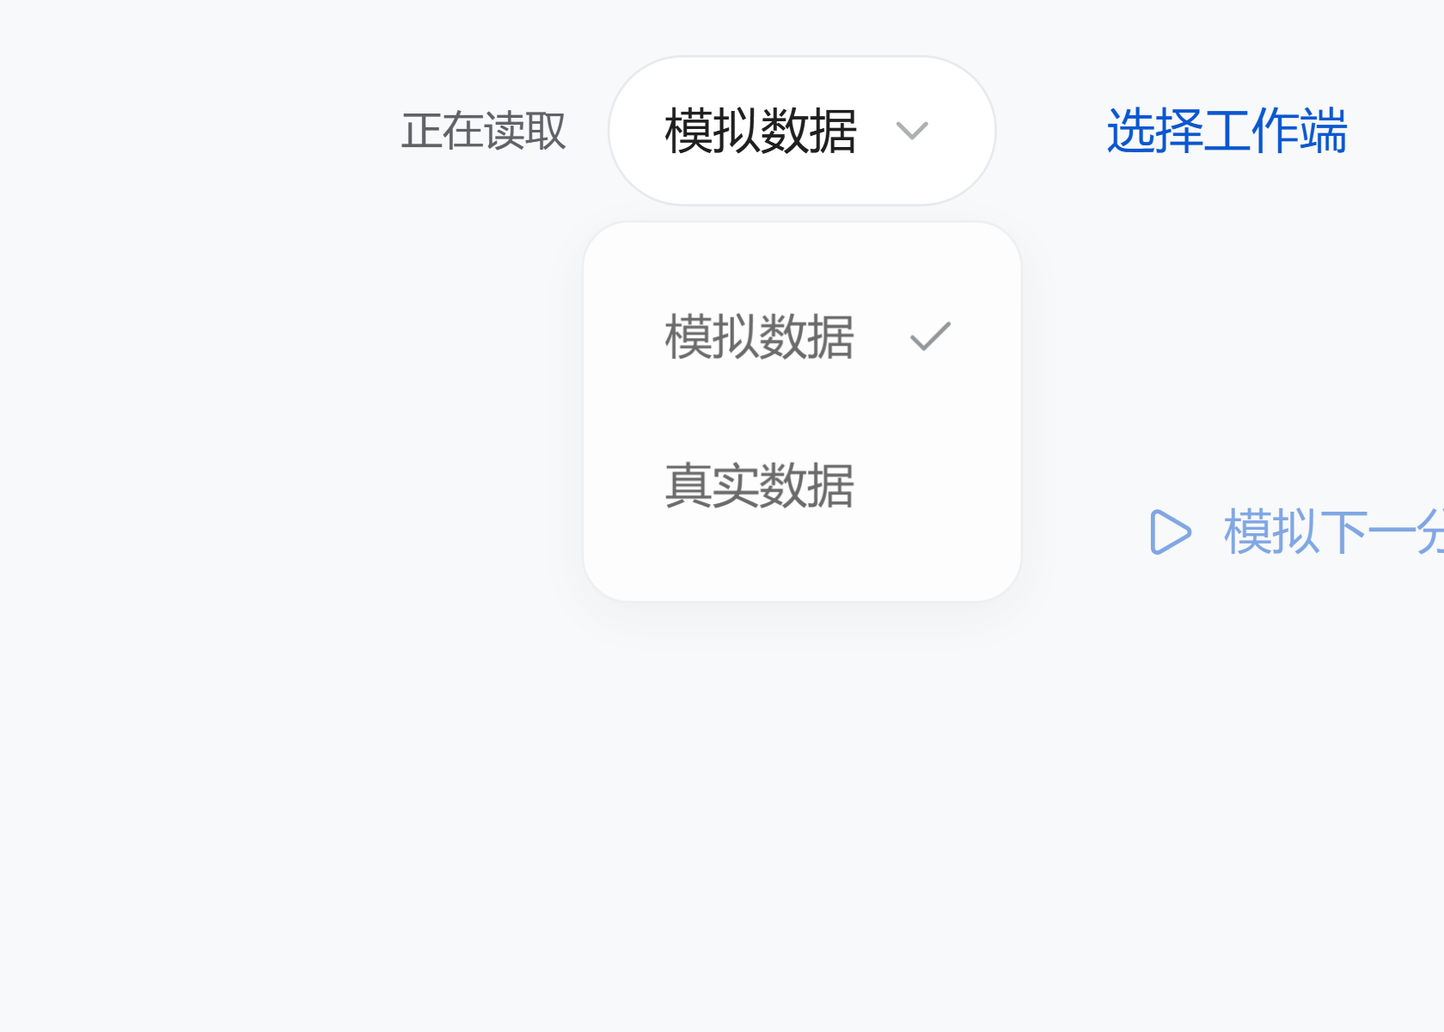
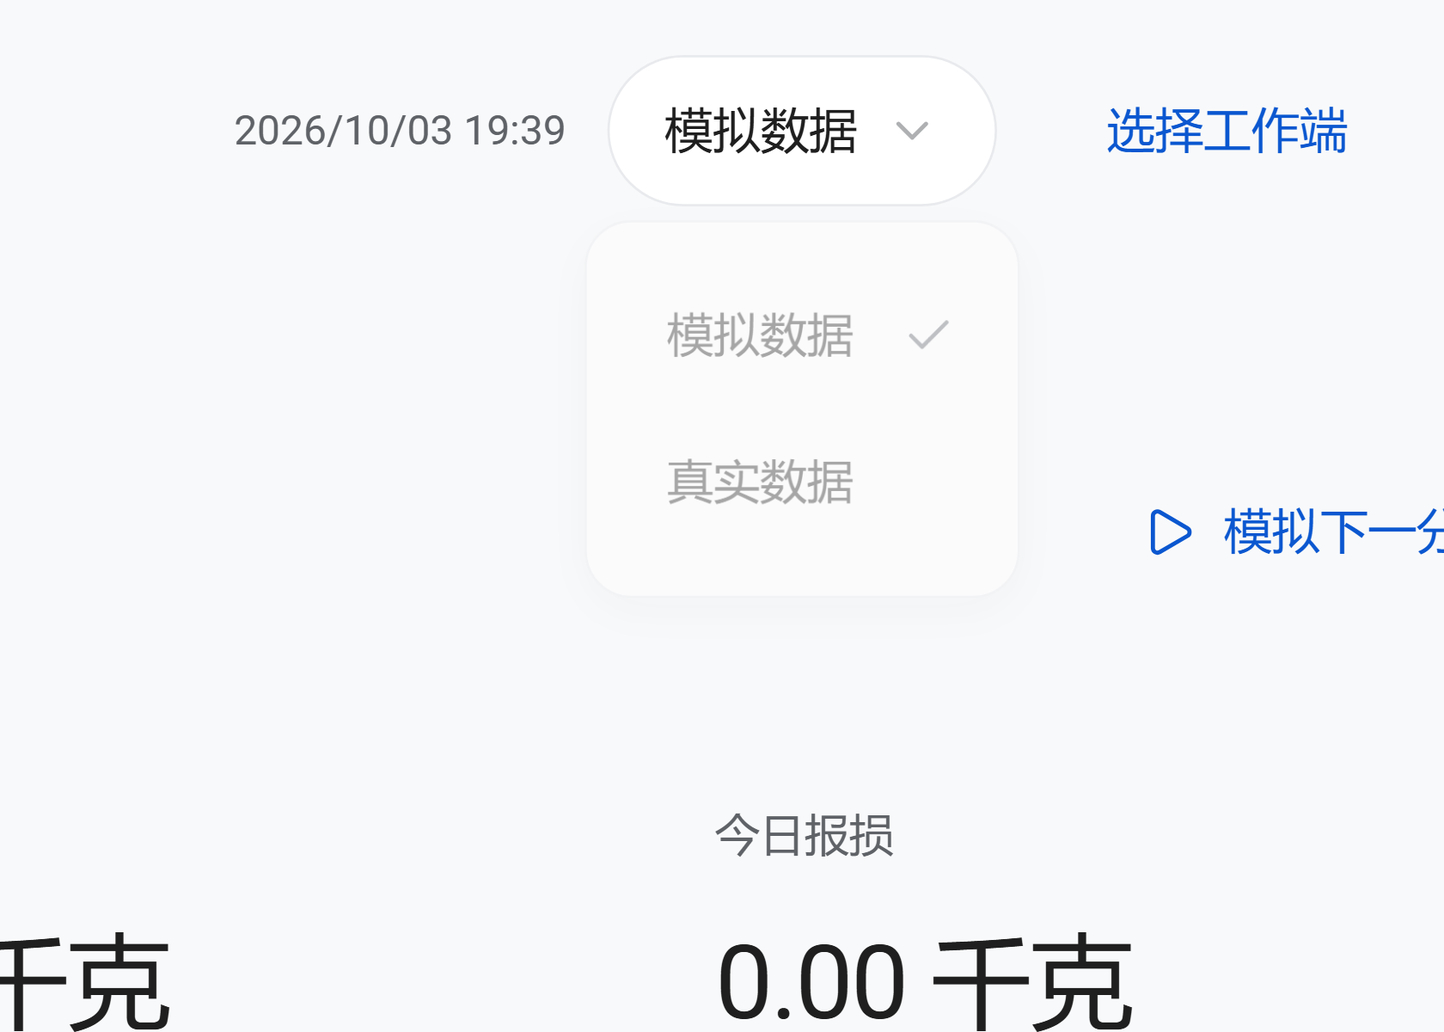
按自查修：非补菜任务分量空值崩页、升级尺度用错阈值、配置值漏进快照

diff --git a/modules/frontend/components/workspace/workspace.tsx b/modules/frontend/components/workspace/workspace.tsx
@@ -33,10 +33,16 @@ const date=(s:string)=>new Date(s).toLocaleDateString("zh-CN",{timeZone:"Asia/Sh
 const qty=(n:number,u:string)=>u==="g"?(n>=1000?`${(n/1000).toFixed(2)} 千克`:`${number(n)} 克`):`${number(n)} 件`;
 const statusText={urgent:"需补充",watch:"留意余量",okay:"充足",anomaly:"需复核"};
 const taskText={pending:"待处理",preparing:"制作中",completed:"已完成",cancelled:"已取消"};
-// 后端派单动作的措辞。补菜是默认，其余三种都要换掉「补充多少 / 完成补菜」这类说法。
-const actionText={check:"巡检",pull:"撤盘",replace:"更换菜品"};
-const actionStart={check:"开始处理",pull:"开始处理",replace:"开始更换"};
-const actionDone={check:"完成巡检",pull:"完成撤盘",replace:"换下并上新"};
+// 非补菜动作的措辞。徽标、按钮、分量格说的都是同一个动作，所以按动作分组放一处，
+// 改一个动作不用满文件找三个 Record。
+// `amount` 顶替的是补菜才有的「补充多少」：换菜和撤盘撤的是整盘，巡检没东西可报数。
+const actionWording={
+  check:{badge:"巡检",start:"开始处理",done:"完成巡检",hint:"建议巡检",amount:"无需补充分量"},
+  pull:{badge:"撤盘",start:"开始处理",done:"完成撤盘",hint:"建议撤盘",amount:"无需补充分量"},
+  replace:{badge:"更换菜品",start:"开始更换",done:"换下并上新",hint:"建议换下并上新批次",amount:"整盘换新"},
+} as const;
+/** 任务的分量说法。非补菜任务的 `quantity` 是 null，直接进 `qty()` 会崩。 */
+const amountText=(t:Task,unit:string)=>t.action&&t.action!=="refill"?actionWording[t.action].amount:qty(t.quantity,unit);
 function Choice({value,onChange,options,label,disabled=false}:{value:string;onChange:(s:string)=>void;options:{value:string;label:string}[];label:string;disabled?:boolean}){return <Select value={value} onValueChange={onChange} disabled={disabled}><SelectTrigger aria-label={label}><SelectValue/></SelectTrigger><SelectContent>{options.map(o=><SelectItem value={o.value} key={o.value}>{o.label}</SelectItem>)}</SelectContent></Select>}
 function Metric({label,value,note,alert=false}:{label:string;value:string;note:string;alert?:boolean}){return <section className={`metric ${alert?"metric-alert":""}`}><span>{label}</span><strong>{value}</strong><small>{note}</small></section>}
 function Empty({title,description}:{title:string;description:string}){return <div className="empty-state"><ClipboardList size={30}/><h3>{title}</h3><p>{description}</p></div>}
@@ -121,21 +127,22 @@ function Kitchen({data,busy,run,setEdit,focused=false}:{data:Data;busy:boolean;r
       const waitingForWeight=data.source==="live"&&t.status==="preparing"&&t.actual<t.quantity;
       // 非补菜任务没有分量：换下上新和撤盘撤的是整盘，巡检也没东西可报数。
       const extra=t.action&&t.action!=="refill"?t.action:null;
+      const wording=extra?actionWording[extra]:null;
       return <article className={`task-row ${t.status==="preparing"?"is-preparing":""}`} key={t.id}>
-       <div className="task-dish"><h2>{d.name}</h2>{extra&&<span className={`status ${extra==="replace"?"watch":"okay"}`}>{actionText[extra]}</span>}{focused?<p>{taskText[t.status]}</p>:<p className={urgent&&!delayed&&t.status==="pending"?"priority-time":""}>{delayed?`${time(t.availableAt!)} 开始`:t.status==="preparing"?(extra?"正在处理":"正在制作"):extra?(extra==="replace"?"建议换下并上新批次":`建议${actionText[extra]}`):urgent?"优先补充":`${time(t.dueAt)} 前补充`}{t.status==="preparing"&&!extra&&<span> · {time(t.dueAt)} 前完成</span>}</p>}</div>
-       <div className="task-quantity">{extra?<span className="cell-meta">{extra==="replace"?"整盘换新":"无需补充分量"}</span>:<Quantity value={t.quantity} unit={d.unit}/>}{focused&&<small className="cell-meta">{extra?"该任务不涉及分量":"该菜品补充总量"}</small>}</div>
+       <div className="task-dish"><h2>{d.name}</h2>{wording&&<span className={`status ${extra==="replace"?"watch":"okay"}`}>{wording.badge}</span>}{focused?<p>{taskText[t.status]}</p>:<p className={urgent&&!delayed&&t.status==="pending"?"priority-time":""}>{delayed?`${time(t.availableAt!)} 开始`:t.status==="preparing"?(wording?"正在处理":"正在制作"):wording?wording.hint:urgent?"优先补充":`${time(t.dueAt)} 前补充`}{t.status==="preparing"&&!wording&&<span> · {time(t.dueAt)} 前完成</span>}</p>}</div>
+       <div className="task-quantity">{wording?<span className="cell-meta">{wording.amount}</span>:<Quantity value={t.quantity} unit={d.unit}/>}{focused&&<small className="cell-meta">{wording?"该任务不涉及分量":"该菜品补充总量"}</small>}</div>
        {focused&&<div className="supply-arrival"><strong className={arrival&&arrival.seconds<=30?"red-text":""}>{arrival?arrivalText(arrival.seconds):"待接入 / 待更新"}</strong><small>{arrival?`${arrival.simulated?"模拟":"预计"}到口 ${time(new Date(arrival.at).toISOString())} · ${arrival.plateId}`:"暂无有效转盘到口时间"}</small></div>}
-       <div className="task-row-actions"><div><Button className={t.status==="preparing"?"complete-button":"start-button"} disabled={busy||delayed||waitingForWeight} onClick={()=>run({action:"task",id:t.id,status:t.status==="pending"?"preparing":"completed"})}>{t.status==="pending"?(extra?actionStart[extra]:"开始制作"):<><Check size={17}/>{extra?actionDone[extra]:"完成补菜"}</>}</Button>{waitingForWeight&&<small className="weight-pending">等待称重确认</small>}</div>
-        <DropdownMenu><DropdownMenuTrigger asChild><Button variant="ghost" className="more-button" aria-label={`${d.name}更多操作`} disabled={busy}><MoreHorizontal size={21}/></Button></DropdownMenuTrigger><DropdownMenuContent align="end"><DropdownMenuItem onSelect={()=>setDetail(t)}><Info/>查看详情</DropdownMenuItem><DropdownMenuItem onSelect={()=>setEdit({kind:"task",item:t,mode:"edit"})}><Pencil/>修改分量</DropdownMenuItem><DropdownMenuItem onSelect={()=>setEdit({kind:"task",item:t,mode:"delay"})}><Clock3/>延后补菜</DropdownMenuItem><DropdownMenuSeparator/><DropdownMenuItem variant="destructive" onSelect={()=>setEdit({kind:"task",item:t,mode:"cancel"})}><X/>取消任务</DropdownMenuItem></DropdownMenuContent></DropdownMenu>
+       <div className="task-row-actions"><div><Button className={t.status==="preparing"?"complete-button":"start-button"} disabled={busy||delayed||waitingForWeight} onClick={()=>run({action:"task",id:t.id,status:t.status==="pending"?"preparing":"completed"})}>{t.status==="pending"?(wording?wording.start:"开始制作"):<><Check size={17}/>{wording?wording.done:"完成补菜"}</>}</Button>{waitingForWeight&&<small className="weight-pending">等待称重确认</small>}</div>
+        <DropdownMenu><DropdownMenuTrigger asChild><Button variant="ghost" className="more-button" aria-label={`${d.name}更多操作`} disabled={busy}><MoreHorizontal size={21}/></Button></DropdownMenuTrigger><DropdownMenuContent align="end"><DropdownMenuItem onSelect={()=>setDetail(t)}><Info/>查看详情</DropdownMenuItem>{!wording&&<><DropdownMenuItem onSelect={()=>setEdit({kind:"task",item:t,mode:"edit"})}><Pencil/>修改分量</DropdownMenuItem><DropdownMenuItem onSelect={()=>setEdit({kind:"task",item:t,mode:"delay"})}><Clock3/>延后补菜</DropdownMenuItem></>}<DropdownMenuSeparator/><DropdownMenuItem variant="destructive" onSelect={()=>setEdit({kind:"task",item:t,mode:"cancel"})}><X/>取消任务</DropdownMenuItem></DropdownMenuContent></DropdownMenu>
        </div>
       </article>;
      })}
      {!active.length&&<div className="kitchen-empty"><span><Check size={28}/></span><h2>暂时没有需要补充的菜品</h2><p>{data.source==="demo"?"有新的补菜任务时，会出现在这里。":"确认补菜规则并接入设备后，自动接收任务。"}</p></div>}
     </div>
    </TabsContent>
-   <TabsContent value="records"><div className="record-toolbar"><Choice value={recordTab} onChange={setRecordTab} label="记录类型" options={[{value:"tasks",label:"已结束任务"},{value:"waste",label:"撤盘与报损"}]}/></div><section className="panel records-panel"><Table mobileLayout="cards"><TableHeader><TableRow>{recordTab==="tasks"?<><TableHead>菜品</TableHead><TableHead>补充分量</TableHead><TableHead>状态</TableHead><TableHead>时间</TableHead><TableHead>备注</TableHead></>:<><TableHead>菜品</TableHead><TableHead>撤盘净重</TableHead><TableHead>处置</TableHead><TableHead>时间</TableHead><TableHead>原因</TableHead></>}</TableRow></TableHeader><TableBody>{recordTab==="tasks"?completed.map(t=><TableRow key={t.id}><TableCell><b>{data.dishes.find(d=>d.id===t.dishId)?.name}</b></TableCell><TableCell>{qty(t.quantity,data.dishes.find(d=>d.id===t.dishId)?.unit||"g")}</TableCell><TableCell>{taskText[t.status]}</TableCell><TableCell>{time(t.updatedAt)}</TableCell><TableCell>{t.note||"—"}</TableCell></TableRow>):data.ledger.filter(l=>l.kind==="waste"||l.kind==="withdraw").map(l=><TableRow key={l.id}><TableCell><b>{data.dishes.find(d=>d.id===l.dishId)?.name}</b></TableCell><TableCell>{kg(l.weightG)}</TableCell><TableCell>{l.kind==="withdraw"?"保留":"报损"}</TableCell><TableCell>{time(l.at)}</TableCell><TableCell>{l.reason||"—"}</TableCell></TableRow>)}</TableBody></Table>{((recordTab==="tasks"&&!completed.length)||(recordTab==="waste"&&!data.ledger.some(l=>l.kind==="waste"||l.kind==="withdraw")))&&<Empty title="暂无记录" description="处理补菜或撤盘后，可在这里查看。"/>}</section></TabsContent>
+   <TabsContent value="records"><div className="record-toolbar"><Choice value={recordTab} onChange={setRecordTab} label="记录类型" options={[{value:"tasks",label:"已结束任务"},{value:"waste",label:"撤盘与报损"}]}/></div><section className="panel records-panel"><Table mobileLayout="cards"><TableHeader><TableRow>{recordTab==="tasks"?<><TableHead>菜品</TableHead><TableHead>补充分量</TableHead><TableHead>状态</TableHead><TableHead>时间</TableHead><TableHead>备注</TableHead></>:<><TableHead>菜品</TableHead><TableHead>撤盘净重</TableHead><TableHead>处置</TableHead><TableHead>时间</TableHead><TableHead>原因</TableHead></>}</TableRow></TableHeader><TableBody>{recordTab==="tasks"?completed.map(t=><TableRow key={t.id}><TableCell><b>{data.dishes.find(d=>d.id===t.dishId)?.name}</b></TableCell><TableCell>{amountText(t,data.dishes.find(d=>d.id===t.dishId)?.unit||"g")}</TableCell><TableCell>{taskText[t.status]}</TableCell><TableCell>{time(t.updatedAt)}</TableCell><TableCell>{t.note||"—"}</TableCell></TableRow>):data.ledger.filter(l=>l.kind==="waste"||l.kind==="withdraw").map(l=><TableRow key={l.id}><TableCell><b>{data.dishes.find(d=>d.id===l.dishId)?.name}</b></TableCell><TableCell>{kg(l.weightG)}</TableCell><TableCell>{l.kind==="withdraw"?"保留":"报损"}</TableCell><TableCell>{time(l.at)}</TableCell><TableCell>{l.reason||"—"}</TableCell></TableRow>)}</TableBody></Table>{((recordTab==="tasks"&&!completed.length)||(recordTab==="waste"&&!data.ledger.some(l=>l.kind==="waste"||l.kind==="withdraw")))&&<Empty title="暂无记录" description="处理补菜或撤盘后，可在这里查看。"/>}</section></TabsContent>
   </Tabs>
-  <Dialog open={!!detail} onOpenChange={open=>{if(!open)setDetail(null);}}><DialogContent><DialogHeader><DialogTitle>{detailDish?.name}补菜详情</DialogTitle><DialogDescription>任务分量与当前观测记录</DialogDescription></DialogHeader>{detail&&detailDish&&<div className="task-detail"><div><span>建议补充</span><b>{qty(detail.quantity,detailDish.unit)}</b></div><div><span>已观测补充</span><b>{qty(detail.actual,detailDish.unit)}</b></div><div><span>需要完成时间</span><b>{time(detail.dueAt)}</b></div><p>{detail.reason}</p>{detail.note&&<p>备注：{detail.note}</p>}</div>}</DialogContent></Dialog>
+  <Dialog open={!!detail} onOpenChange={open=>{if(!open)setDetail(null);}}><DialogContent><DialogHeader><DialogTitle>{detailDish?.name}{detail?.action&&detail.action!=="refill"?"任务详情":"补菜详情"}</DialogTitle><DialogDescription>{detail?.action&&detail.action!=="refill"?"这条任务的派单依据与来源":"任务分量与当前观测记录"}</DialogDescription></DialogHeader>{detail&&detailDish&&<div className="task-detail"><div><span>建议补充</span><b>{amountText(detail,detailDish.unit)}</b></div><div><span>已观测补充</span><b>{qty(detail.actual,detailDish.unit)}</b></div><div><span>需要完成时间</span><b>{time(detail.dueAt)}</b></div><p>{detail.reason}</p>{detail.note&&<p>备注：{detail.note}</p>}</div>}</DialogContent></Dialog>
  </>;
 }
 function Analytics({data}:{data:Data}){

diff --git a/modules/backend/app/refill.py b/modules/backend/app/refill.py
@@ -86,13 +86,12 @@ def evaluate_serving(state: ServingState, now: Optional[datetime] = None) -> lis
             f"余量低但{stagnation:.0f}分钟无取用：建议巡检（位置/卖相/新鲜度），不自动补菜",
             now, 0))
 
-    # ---- 撤盘：滞留超保鲜窗口且余量仍高 ----
-    # 已经到更换期限的盘子不再补一条撤盘建议：换下上新本身就是处置方式，
-    # 两条任务说的是同一盘菜，只留可执行的那条。
-    replace_overdue = m.get("replace_overdue_min")
+    # ---- 撤盘与更换：两条规则说的是同一盘菜，只留能落地的那条 ----
+    # 已经到更换期限的盘子不再补一条撤盘建议：换下上新本身就是处置方式。
     age = m.get("age_min")
-    if m["waste_risk"] == "high" and ratio is not None and ratio >= 0.5 \
-            and not (replace_overdue is not None and replace_overdue >= 0):
+    overdue = m.get("replace_overdue_min")
+    replace_due = overdue is not None and overdue >= 0 and age is not None
+    if m["waste_risk"] == "high" and ratio is not None and ratio >= 0.5 and not replace_due:
         tasks.append(_task(
             "pull", state, dish, None, False, None, "medium",
             f"滞留{stagnation:.0f}分钟且余量{ratio:.0%}：报废风险，建议撤盘或换位置促销",
@@ -100,12 +99,15 @@ def evaluate_serving(state: ServingState, now: Optional[datetime] = None) -> lis
 
     # ---- 更换：这盘菜上转盘太久了，与余量多少无关 ----
     # 卖得慢的菜可能一直不缺货，但摆久了卖相和口感都会掉，要换下上新批次。
-    if replace_overdue is not None and replace_overdue >= 0 and age is not None:
+    if replace_due:
+        # 升级尺度用这一盘自己的期限，不是全局默认 —— 配了 240 分钟的菜
+        # 不该按 90 分钟那套算「超时一半」。
+        deadline = config.replace_after(dish)
         tasks.append(_task(
             "replace", state, dish, None, False, None,
-            "high" if replace_overdue >= config.REPLACE_AFTER_MIN / 2 else "medium",
-            f"这盘已上转盘{age:.0f}分钟，超过更换期限"
-            f"{m['replace_after_min']:.0f}分钟，余量{ratio:.0%}：建议换下并上新批次",
+            "high" if overdue >= deadline / 2 else "medium",
+            f"这盘已上转盘{age:.0f}分钟，超过更换期限{deadline:.0f}分钟，"
+            f"余量{ratio:.0%}：建议换下并上新批次",
             now, 0))
 
     return tasks

diff --git a/modules/backend/app/config.py b/modules/backend/app/config.py
@@ -48,6 +48,10 @@ DATASET_DIR = os.environ.get(
 # ---- 业务规则阈值（对齐 scenario_config.json）----
 # 相邻两次正常读数最多相差 4g 而没有真实变化 => 噪声界
 NOISE_BOUND_G = _f("NOISE_BOUND_G", 4)
+# 「盘上没东西」的净重上限（克）。和 NOISE_BOUND_G 是两个问题：那个界判的是
+# 「两次读数之差算不算变化」，这个判的是「这一盘还算不算有菜」。默认值恰好一样
+# 不代表它们该一起调 —— 秤的分辨率和菜的份量是两件独立的事。
+EMPTY_PLATE_NET_G = _f("EMPTY_PLATE_NET_G", 4)
 # 同盘同站 20 秒内的多次读数视为一次经过（连续视频帧合并为一次有效事件）
 PASS_MERGE_WINDOW_S = _f("PASS_MERGE_WINDOW_S", 20)
 # 余量占比低于该值触发补菜评估
@@ -64,3 +68,18 @@ FRESHNESS_WINDOW_MIN = _f("FRESHNESS_WINDOW_MIN", 30)
 REPLACE_AFTER_MIN = _f("REPLACE_AFTER_MIN", 90)
 # 补菜任务保留时长：已完成任务不再重复触发的静默期（分钟）
 TASK_QUIET_MIN = _f("TASK_QUIET_MIN", 10)
+
+
+# ---- 菜品级覆盖 ----
+# 「菜品目录配了就用菜品目录的，没配就用全局默认」这条规则只在这里实现。
+# 调用方各自写 `dish.get(x) or config.X` 的话，同一个回退语义会有好几份，
+# 改起来必然会漏掉几处。
+
+def freshness_window(dish: dict) -> float:
+    """这一盘用的保鲜窗口（分钟）：菜品级配置优先，没配就用全局默认。"""
+    return float(dish.get("freshness_min") or FRESHNESS_WINDOW_MIN)
+
+
+def replace_after(dish: dict) -> float:
+    """这一盘用的上盘更换期限（分钟）：菜品级配置优先，没配就用全局默认。"""
+    return float(dish.get("replace_after_min") or REPLACE_AFTER_MIN)

diff --git a/modules/backend/app/analytics.py b/modules/backend/app/analytics.py
@@ -68,15 +68,17 @@ def serving_metrics(state: ServingState, now: Optional[datetime] = None):
 
     # 报废风险：余量高 + 长时间无取用 / 超保鲜窗口
     dish = db.get_dish(state.dish_id) or {}
-    freshness = dish.get("freshness_min") or config.FRESHNESS_WINDOW_MIN
+    freshness = config.freshness_window(dish)
     serving = db.query_one("SELECT opened_at FROM servings WHERE serving_id=?",
                            (state.serving_id,))
     opened = _parse(serving["opened_at"]) if serving else None
     age_min = round((now - opened).total_seconds() / 60, 1) if opened else None
 
-    # 上盘更换期限：看这一盘上转盘多久了，与余量无关
-    replace_after = dish.get("replace_after_min") or config.REPLACE_AFTER_MIN
-    replace_overdue = round(age_min - replace_after, 1) if age_min is not None else None
+    # 上盘更换期限：看这一盘上转盘多久了，与余量无关。
+    # 只回「超了多久」这个测量结果；期限本身是配置，由调用方问 config.replace_after()，
+    # 免得配置值跟着 `serving_snapshot` 的 `**m` 一起漏进接口快照。
+    replace_overdue = (round(age_min - config.replace_after(dish), 1)
+                       if age_min is not None else None)
 
     risk = "none"
     if remaining_ratio is not None and stagnation is not None:
@@ -91,7 +93,6 @@ def serving_metrics(state: ServingState, now: Optional[datetime] = None):
         "stagnation_min": stagnation,
         "remaining_ratio": remaining_ratio,
         "age_min": age_min,
-        "replace_after_min": replace_after,
         "replace_overdue_min": replace_overdue,
         "waste_risk": risk,
     }

diff --git a/modules/backend/app/samples.py b/modules/backend/app/samples.py
@@ -288,7 +288,7 @@ def _identify(sample_id: str) -> dict:
     # 称重说盘上没东西时，让模型可以选「以上都不是」；没称重就按有菜处理，
     # 免得误伤真的菜（实测：有菜时开这个选项准度会掉）。
     weight = s.get("net_weight_g")
-    has_food = weight is None or float(weight) > config.NOISE_BOUND_G
+    has_food = weight is None or float(weight) > config.EMPTY_PLATE_NET_G
     recognized = vision.identify_dish(image_b64, plate_has_food=has_food)
     updated: dict = {}
 

diff --git a/modules/integration/验证记录.md b/modules/integration/验证记录.md
@@ -228,3 +228,67 @@ python modules/integration/run_online_replay.py --mode offline
 **不在 DOM 里，CSS 藏不掉**）。改成 `popper` 定位后滚动状态由真实溢出决定，按钮不再出现。
 
 证据：`evidence/上盘更换期限-界面验收.txt`、`evidence/验收-*.png`。
+
+## 九、改动自查（高内聚低耦合）
+
+按「改动是不是各就各位」又过了一遍自己的 diff，逐条都是实测出来的，不是读代码猜的。
+
+### 1. 崩页 bug：非补菜任务的分量是 null（最严重）
+
+新增 `replace` 动作后，**后厨页面整页崩了**：`Cannot read properties of null (reading 'toLocaleString')`。
+链路是 `workspace.tsx` 的「已结束任务」表格 → `qty(t.quantity)` → `number(null)`。
+
+根因不在新代码里，是**既有隐患被新动作暴露**：`qty()` 一直假定 `quantity` 是数字，
+而适配层对非补菜任务给的就是 `null`（换菜/撤盘/巡检都没有分量）。以前 `check`/`pull`
+从来没人把它们点成已结束，所以没炸过；我一取消演示单就炸了。
+
+修法不是加个 `?.`，而是把「这条任务的分量怎么说」收成一处
+`amountText(t, unit)`，任务卡、已结束任务表、详情弹窗三处共用 —— 原来这段
+`action==="replace"?…:…` 的判断散在三处，漏一处就是这个 bug。
+验收脚本现在显式断言页面没有运行时错误（`crashed` 字段），别再退回去。
+
+### 2. 升级尺度用错了阈值
+
+```python
+"high" if replace_overdue >= config.REPLACE_AFTER_MIN / 2 else "medium"
+```
+`replace_overdue` 是相对**这道菜自己的**期限算的，尺子却用**全局默认**。配了 150 分钟的菜
+超时 50 分钟只是 33%，却因为「50 ≥ 90/2」被判成 high。已改成 `config.replace_after(dish) / 2`，
+冒烟用例 5 专门盯这条（修之前会失败）。
+
+### 3. 配置值漏进了接口快照
+
+`serving_metrics` 一度把 `replace_after_min` 一起返回。它是**配置**不是**测量结果**，
+而 `core.serving_snapshot` 用 `**m` 把整个字典摊进 `/api/events` 的 serving 快照，
+于是配置值就这么进了接口返回，`schemas.ServingSnapshot` 里还没声明它
+（顺带暴露：`age_min` 同样没声明，说明这个模型本来就没被用来校验）。
+现在只回 `replace_overdue_min` 这个测量结果，配置由调用方问 `config.replace_after(dish)`。
+
+### 4. 「菜品级覆盖 → 全局默认」原本有两份实现
+
+`analytics` 里 `dish.get("freshness_min") or config.FRESHNESS_WINDOW_MIN`，
+我照抄了一份给 `replace_after_min`。同一条回退语义两处实现，加第三个字段必然漏。
+已收进 `config.freshness_window(dish)` / `config.replace_after(dish)`，注释写明这条规则只在这里。
+
+### 5. 三个平行 Record
+
+`actionText` / `actionStart` / `actionDone` 三个 Record 用同一组键，是同一个概念被拆成三份。
+已并成按动作分组的 `actionWording`，并把「换下并上新批次」「整盘换新」这两句
+原来内联在三元里的文案也收进去。
+
+### 6. `NOISE_BOUND_G` 被借去当空盘阈值
+
+`samples.py` 用 `NOISE_BOUND_G` 判「盘上有没有菜」。那个常量的含义是
+「两次读数之差算不算变化」，和「这一盘还算不算有菜」是两件事，默认值恰好都是 4。
+已拆出 `config.EMPTY_PLATE_NET_G`，注释说明为什么不共用一个。
+
+### 没修的（留档，需拍板）
+
+- `measure_identify_options.py` 自己拼 multipart 打 `/v1/identify`，没走 `JevClient`。
+  本模块 `check_jev_contract.py` 的既定做法是「用后端真实客户端测，测的才是真实联调路径」，
+  这个脚本违反了自家规矩，也重复了一份 `.env` 解析和 multipart 组装。
+  `JevClient.identify` 现在已经支持 `include_none`，改过去就行。
+- `check_replace_deadline.mjs` 是**第三份** CDP 样板（前两份是 `check_workbench_render.mjs`、
+  `check_sample_intake_flow.mjs`）。已在 STATUS 记为待办，冻结后连前两份一起抽成 `lib/cdp.mjs`。
+- `Task.action` 在 `domain.ts` 里是可选的：前端演示引擎不发这个字段，缺省当成补菜。
+  可选字段把这个契约藏起来了，但改成必填要连演示引擎一起改，冻结前没动。
